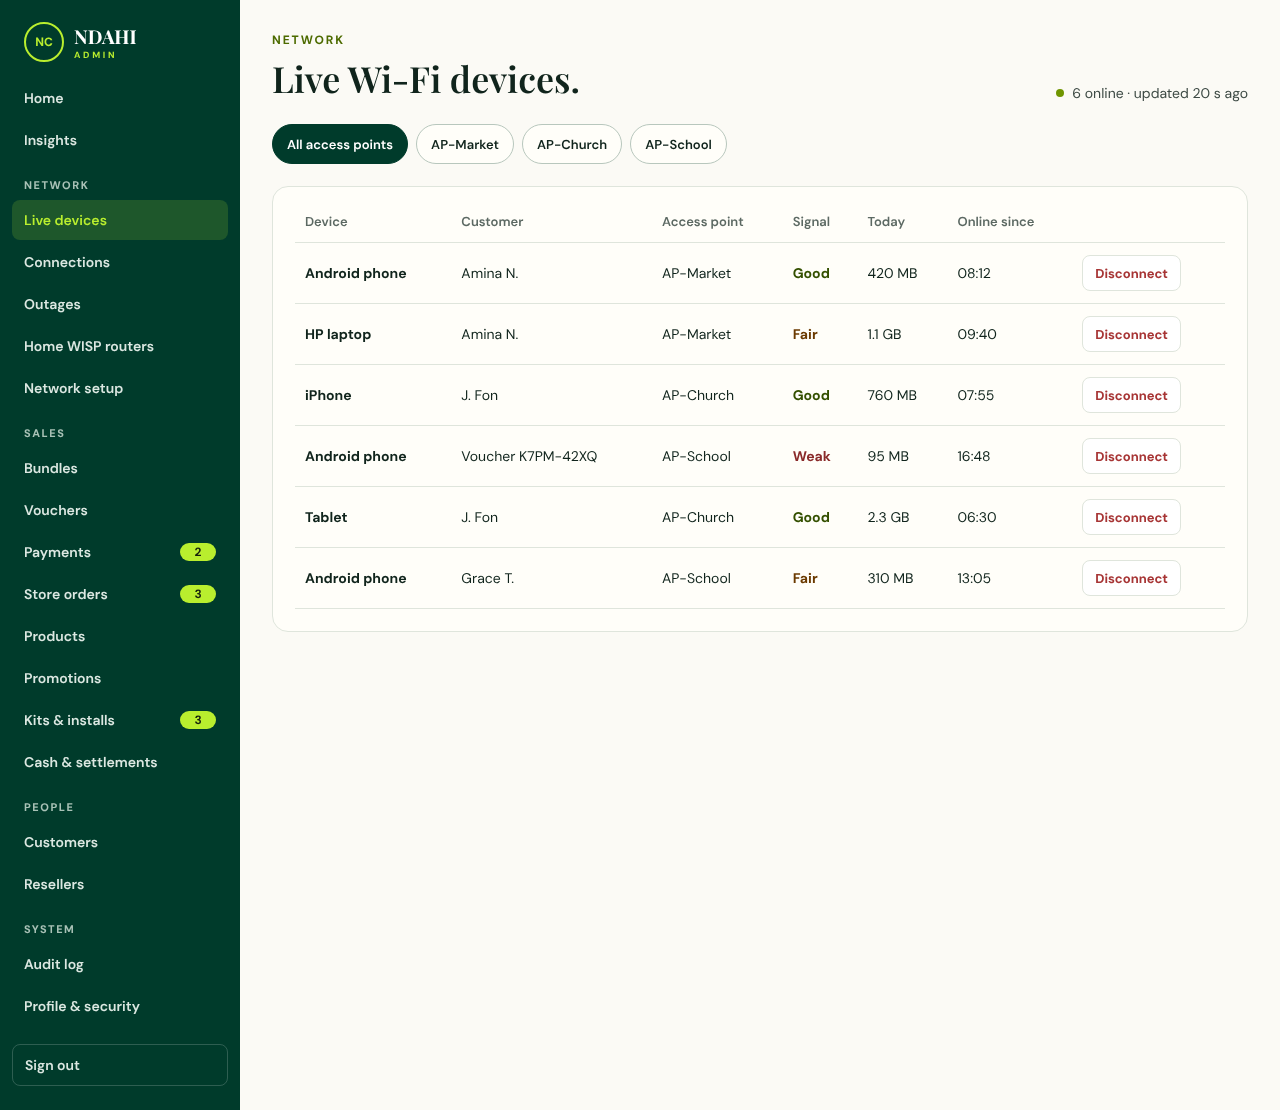
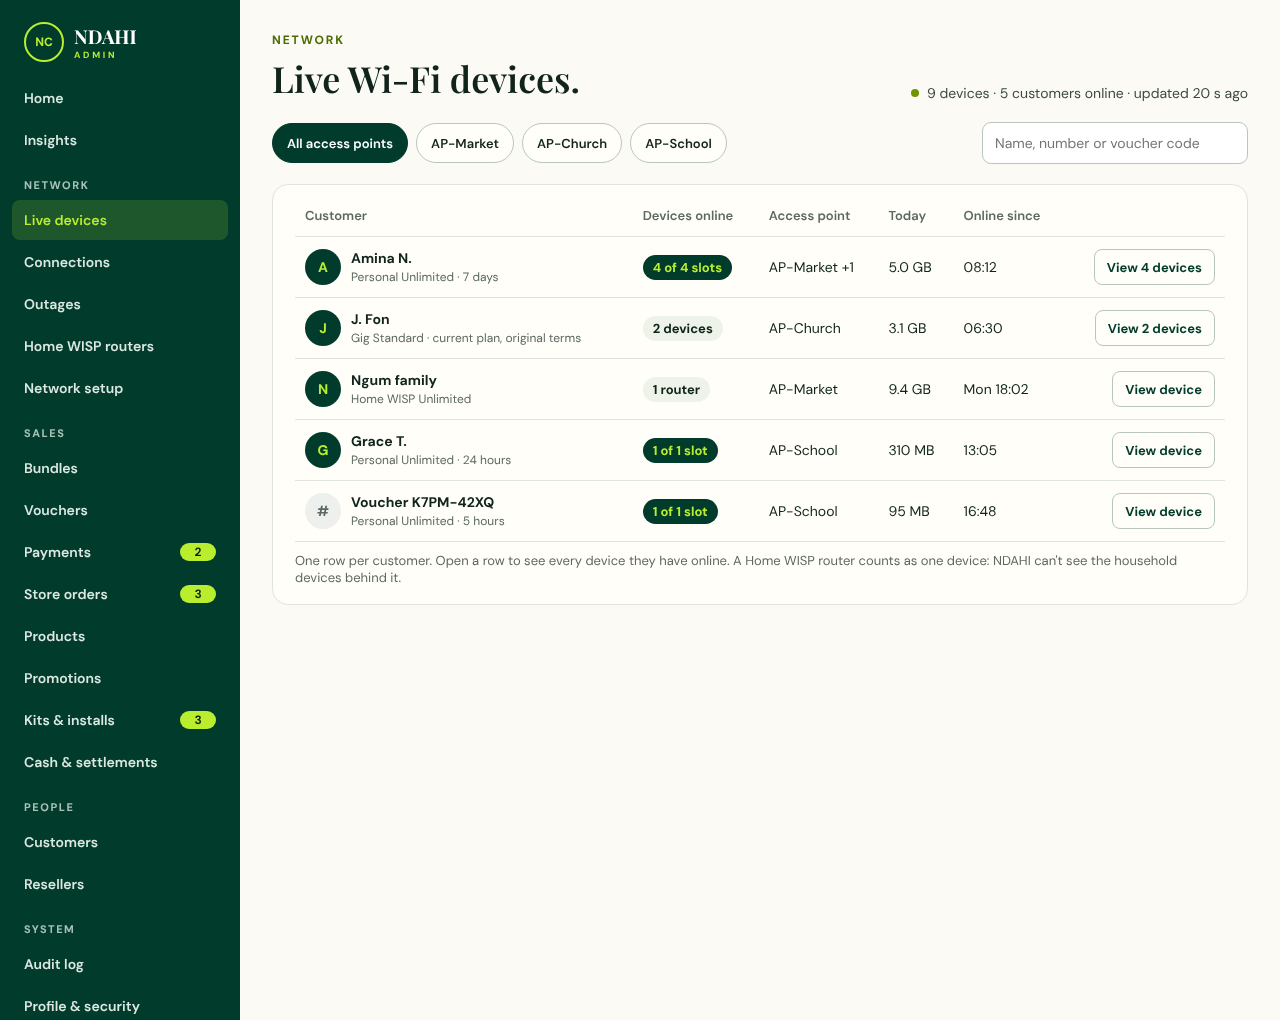
docs(redesign): Live devices grouped by customer, with a devices pop-up
One row per customer (devices online vs slots, access points, data today,
online since); "View devices" opens a dialog listing every connected device
with per-device Disconnect and Disconnect all. Home WISP shows as one router.

Claude-Session: https://claude.ai/code/session_01PeEvdR56ZfPMa6Qo24KpBv

diff --git a/docs/redesign/screens/AdminDevices.dc.html b/docs/redesign/screens/AdminDevices.dc.html
@@ -12,71 +12,155 @@
 <style>
 body{margin:0;background:#fbfaf5}
 a{color:#003b2b}a:hover{color:#062a20}
-td,th{text-align:left;padding:12px 10px;border-bottom:1px solid #dfe5dc;font-size:14px;white-space:nowrap}
+td,th{text-align:left;padding:12px 10px;border-bottom:1px solid #dfe5dc;font-size:14px;white-space:nowrap;vertical-align:middle}
 th{color:#5c6963;font-weight:600;font-size:13px}
+.av{flex:0 0 36px;height:36px;border-radius:50%;background:#003b2b;color:#b9ee2e;display:grid;place-items:center;font-weight:700}
+.pill{padding:3px 9px;border-radius:999px;font-size:12px;font-weight:700;white-space:nowrap}
+.go2{min-height:36px;padding:0 12px;border-radius:8px;border:1px solid #b8c7bd;background:#fffef9;color:#003b2b;font:700 13px 'DM Sans',sans-serif;cursor:pointer;text-decoration:none;display:inline-flex;align-items:center}
+.kick{min-height:34px;padding:0 10px;border-radius:8px;border:1px solid #e3b4b4;background:#ffffff;color:#a73535;font:700 12px 'DM Sans',sans-serif;cursor:pointer}
+.mono{font-family:ui-monospace,Menlo,monospace;font-size:12px;color:#5c6963}
 </style>
 </helmet>
-<div style="font-family: 'DM Sans', system-ui, sans-serif; color: #10241c; background: #fbfaf5; min-height: 1020px; display: flex; flex-wrap: wrap">
+<div style="position: relative; font-family: 'DM Sans', system-ui, sans-serif; color: #10241c; background: #fbfaf5; min-height: 1020px; display: flex; flex-wrap: wrap">
   <aside style="flex: 0 0 240px; background: #003b2b">
     <dc-import name="AdminSide" current="devices" hint-size="240px,780px"></dc-import>
   </aside>
-  <main style="flex: 999 1 560px; min-width: 0; padding: 32px 32px 56px; box-sizing: border-box; display: flex; flex-direction: column; gap: 22px; max-width: 1080px">
+  <main style="flex: 999 1 560px; min-width: 0; padding: 32px 32px 56px; box-sizing: border-box; display: flex; flex-direction: column; gap: 20px; max-width: 1080px">
     <div style="display: flex; flex-wrap: wrap; justify-content: space-between; align-items: flex-end; gap: 12px">
       <div>
         <p style="margin: 0 0 6px; color: #4d6b00; font-size: 12px; font-weight: 700; letter-spacing: .16em; text-transform: uppercase">Network</p>
         <h1 style="margin: 0; font-family: 'Playfair Display', serif; font-weight: 600; font-size: 36px">Live Wi-Fi devices.</h1>
       </div>
-      <span style="display: flex; align-items: center; gap: 8px; font-size: 14px; color: #3d4a44"><span style="width: 8px; height: 8px; border-radius: 50%; background: #6f9500"></span>{{count}} online · updated 20 s ago</span>
+      <span style="display: flex; align-items: center; gap: 8px; font-size: 14px; color: #3d4a44"><span style="width: 8px; height: 8px; border-radius: 50%; background: #6f9500"></span>{{deviceCount}} devices · {{customerCount}} customers online · updated 20 s ago</span>
     </div>
 
-    <div role="group" aria-label="Access point" style="display: flex; flex-wrap: wrap; gap: 8px">
-      <sc-for list="{{aps}}" as="a" hint-placeholder-count="4">
-        <button type="button" aria-pressed="{{a.pressed}}" onClick="{{a.pick}}" style="{{a.style}}">{{a.label}}</button>
-      </sc-for>
+    <div style="display: flex; flex-wrap: wrap; gap: 10px; align-items: center; justify-content: space-between">
+      <div role="group" aria-label="Access point" style="display: flex; flex-wrap: wrap; gap: 8px">
+        <sc-for list="{{aps}}" as="a" hint-placeholder-count="4">
+          <button type="button" aria-pressed="{{a.pressed}}" onClick="{{a.pick}}" style="{{a.style}}">{{a.label}}</button>
+        </sc-for>
+      </div>
+      <label for="ds" style="position: absolute; width: 1px; height: 1px; overflow: hidden; clip: rect(0 0 0 0)">Find a customer, number or code</label>
+      <input id="ds" placeholder="Name, number or voucher code" style="min-height: 40px; width: 240px; padding: 0 12px; border-radius: 9px; border: 1px solid #b8c7bd; background: #ffffff; font: 14px 'DM Sans', sans-serif">
     </div>
 
-    <section aria-label="Devices" style="background: #fffef9; border: 1px solid #dfe5dc; border-radius: 16px; padding: 14px 22px 22px">
+    <section aria-label="Customers online" style="background: #fffef9; border: 1px solid #dfe5dc; border-radius: 16px; padding: 10px 22px 18px">
       <div style="overflow-x: auto">
         <table style="width: 100%; border-collapse: collapse">
-          <thead><tr><th scope="col">Device</th><th scope="col">Customer</th><th scope="col">Access point</th><th scope="col">Signal</th><th scope="col">Today</th><th scope="col">Online since</th><th scope="col"><span style="position: absolute; width: 1px; height: 1px; overflow: hidden; clip: rect(0 0 0 0)">Action</span></th></tr></thead>
+          <thead><tr><th scope="col">Customer</th><th scope="col">Devices online</th><th scope="col">Access point</th><th scope="col">Today</th><th scope="col">Online since</th><th scope="col"><span style="position: absolute; width: 1px; height: 1px; overflow: hidden; clip: rect(0 0 0 0)">Action</span></th></tr></thead>
           <tbody>
-            <sc-for list="{{rows}}" as="r" hint-placeholder-count="6">
-              <tr>
-                <td><strong>{{r.dev}}</strong></td><td>{{r.who}}</td><td>{{r.ap}}</td>
-                <td><span style="{{r.sigStyle}}">{{r.sig}}</span></td>
-                <td>{{r.today}}</td><td>{{r.since}}</td>
-                <td><button type="button" onClick="{{r.kick}}" aria-label="{{r.kickLabel}}" style="min-height: 36px; padding: 0 12px; border-radius: 8px; border: 1px solid #dfe5dc; background: #ffffff; color: #a73535; font: 700 13px 'DM Sans', sans-serif; cursor: pointer">Disconnect</button></td>
+            <sc-for list="{{rows}}" as="r" hint-placeholder-count="5">
+              <tr style="{{r.rowStyle}}">
+                <td><span style="display: flex; gap: 10px; align-items: center"><span class="av" style="{{r.avStyle}}">{{r.initial}}</span><span><strong style="display: block">{{r.who}}</strong><span style="font-size: 12px; color: #5c6963">{{r.plan}}</span></span></span></td>
+                <td><span style="{{r.countStyle}}">{{r.countText}}</span></td>
+                <td>{{r.ap}}</td><td>{{r.today}}</td><td>{{r.since}}</td>
+                <td style="text-align: right"><button type="button" class="go2" onClick="{{r.open}}" aria-haspopup="dialog" aria-label="{{r.openLabel}}">{{r.openText}}</button></td>
               </tr>
             </sc-for>
           </tbody>
         </table>
       </div>
+      <p style="margin: 10px 0 0; color: #5c6963; font-size: 13px">One row per customer. Open a row to see every device they have online. A Home WISP router counts as one device: NDAHI can't see the household devices behind it.</p>
     </section>
   </main>
+
+  <sc-if value="{{hasDialog}}" hint-placeholder-val="{{ false }}">
+    <div style="position: absolute; inset: 0; background: rgba(16,36,28,.45); display: flex; align-items: flex-start; justify-content: center; padding-top: 90px; z-index: 5">
+      <section role="dialog" aria-modal="true" aria-labelledby="dlgT" style="width: 760px; max-width: calc(100% - 40px); box-sizing: border-box; background: #fffef9; border-radius: 18px; box-shadow: 0 20px 50px rgba(0,0,0,.25); padding: 22px 24px; display: flex; flex-direction: column; gap: 14px">
+        <div style="display: flex; gap: 12px; align-items: flex-start">
+          <span class="av" style="flex-basis: 44px; height: 44px; font-size: 18px">{{d.initial}}</span>
+          <div style="flex: 1">
+            <h2 id="dlgT" style="margin: 0; font-family: 'Playfair Display', serif; font-weight: 600; font-size: 24px">{{d.who}} · {{d.onlineText}}</h2>
+            <p style="margin: 4px 0 0; color: #5c6963; font-size: 14px">{{d.plan}} · {{d.slots}} · {{d.ends}}</p>
+          </div>
+          <button type="button" onClick="{{close}}" aria-label="Close" style="width: 40px; height: 40px; border: 0; border-radius: 10px; background: #eef3e9; color: #10241c; font: 700 18px 'DM Sans', sans-serif; cursor: pointer">×</button>
+        </div>
+        <sc-if value="{{d.full}}" hint-placeholder-val="{{ true }}">
+          <p style="margin: 0; padding: 10px 12px; border-radius: 10px; background: #eef3e9; color: #3d4a44; font-size: 13px">All slots are in use. A new device is refused until one is replaced, even if a registered device goes offline.</p>
+        </sc-if>
+        <table style="width: 100%; border-collapse: collapse">
+          <thead><tr><th scope="col">Device</th><th scope="col">Access point</th><th scope="col">Signal</th><th scope="col">Today</th><th scope="col">Online since</th><th scope="col"><span style="position: absolute; width: 1px; height: 1px; overflow: hidden; clip: rect(0 0 0 0)">Action</span></th></tr></thead>
+          <tbody>
+            <sc-for list="{{d.devices}}" as="x" hint-placeholder-count="4">
+              <tr>
+                <td><strong style="display: block">{{x.name}}</strong><span class="mono">{{x.mac}} · {{x.slot}}</span></td>
+                <td>{{x.ap}}</td>
+                <td><span style="{{x.sigStyle}}">{{x.sig}}</span></td>
+                <td>{{x.today}}</td><td>{{x.since}}</td>
+                <td style="text-align: right"><button type="button" class="kick" onClick="{{x.kick}}" aria-label="{{x.kickLabel}}">Disconnect</button></td>
+              </tr>
+            </sc-for>
+          </tbody>
+        </table>
+        <sc-if value="{{d.none}}" hint-placeholder-val="{{ false }}"><p role="status" style="margin: 0; color: #345000; font-weight: 700; font-size: 14px">All devices disconnected.</p></sc-if>
+        <p style="margin: 0; color: #5c6963; font-size: 13px; line-height: 1.45">Disconnect ends the session now; the device can sign in again. To free a slot or stop a device for good, use <strong>Revoke device</strong> on the customer's page.</p>
+        <div style="display: flex; flex-wrap: wrap; gap: 10px; justify-content: space-between; align-items: center">
+          <a class="go2" href="AdminCustomerDetail.dc.html" style="{{d.linkStyle}}">Open customer</a>
+          <button type="button" onClick="{{kickAll}}" style="min-height: 40px; padding: 0 14px; border-radius: 9px; border: 0; background: #a73535; color: #ffffff; font: 700 13px 'DM Sans', sans-serif; cursor: pointer">Disconnect all {{d.n}}</button>
+        </div>
+      </section>
+    </div>
+  </sc-if>
 </div>
 </x-dc>
-<script type="text/x-dc" data-dc-script data-props='{"$preview":{"width":1280,"height":1020}}'>
+<script type="text/x-dc" data-dc-script data-props='{"open":{"editor":"enum","options":["none","amina","fon","wisp"],"default":"none"},"$preview":{"width":1280,"height":1020}}'>
 class Component extends DCLogic {
-  constructor(props) { super(props); this.state = { ap: 'all', gone: [] }; }
+  constructor(props) { super(props); const o = props.open ?? 'none'; this.state = { ap: 'all', open: o === 'none' ? null : o, gone: [] }; }
   renderVals() {
     const s = this.state;
-    const all = [
-      { id: 1, dev: 'Android phone', who: 'Amina N.', ap: 'AP-Market', sig: 'Good', today: '420 MB', since: '08:12' },
-      { id: 2, dev: 'HP laptop', who: 'Amina N.', ap: 'AP-Market', sig: 'Fair', today: '1.1 GB', since: '09:40' },
-      { id: 3, dev: 'iPhone', who: 'J. Fon', ap: 'AP-Church', sig: 'Good', today: '760 MB', since: '07:55' },
-      { id: 4, dev: 'Android phone', who: 'Voucher K7PM-42XQ', ap: 'AP-School', sig: 'Weak', today: '95 MB', since: '16:48' },
-      { id: 5, dev: 'Tablet', who: 'J. Fon', ap: 'AP-Church', sig: 'Good', today: '2.3 GB', since: '06:30' },
-      { id: 6, dev: 'Android phone', who: 'Grace T.', ap: 'AP-School', sig: 'Fair', today: '310 MB', since: '13:05' }
-    ].filter((r) => !s.gone.includes(r.id));
+    const C = [
+      { id: 'amina', who: 'Amina N.', initial: 'A', plan: 'Personal Unlimited · 7 days', slotsMax: 4, ends: 'ends Wed 25 Nov', link: true, devices: [
+        { id: 'a1', name: 'Android phone', mac: '••:8B:03:D1', ap: 'AP-Market', sig: 'Good', today: '420 MB', since: '08:12' },
+        { id: 'a2', name: 'HP laptop', mac: '••:19:C7:5E', ap: 'AP-Market', sig: 'Fair', today: '1.1 GB', since: '09:40' },
+        { id: 'a3', name: 'Samsung tablet', mac: '••:4F:A2:10', ap: 'AP-Market', sig: 'Good', today: '650 MB', since: '10:05' },
+        { id: 'a4', name: 'Smart TV', mac: '••:E2:71:9A', ap: 'AP-School', sig: 'Weak', today: '2.8 GB', since: '18:30' } ] },
+      { id: 'fon', who: 'J. Fon', initial: 'J', plan: 'Gig Standard · current plan, original terms', slotsMax: null, ends: 'ends Fri 27 Nov', link: true, devices: [
+        { id: 'f1', name: 'iPhone', mac: '••:61:0D:44', ap: 'AP-Church', sig: 'Good', today: '760 MB', since: '07:55' },
+        { id: 'f2', name: 'Tablet', mac: '••:A9:3E:12', ap: 'AP-Church', sig: 'Good', today: '2.3 GB', since: '06:30' } ] },
+      { id: 'wisp', who: 'Ngum family', initial: 'N', plan: 'Home WISP Unlimited', slotsMax: null, ends: 'ends Tue 22 Dec', link: true, router: true, devices: [
+        { id: 'w1', name: 'Home WISP router', mac: '••:9C:31:E4', ap: 'AP-Market', sig: 'Good', today: '9.4 GB', since: 'Mon 18:02' } ] },
+      { id: 'grace', who: 'Grace T.', initial: 'G', plan: 'Personal Unlimited · 24 hours', slotsMax: 1, ends: 'ends today 21:10', link: true, devices: [
+        { id: 'g1', name: 'Android phone', mac: '••:5D:22:B7', ap: 'AP-School', sig: 'Fair', today: '310 MB', since: '13:05' } ] },
+      { id: 'vch', who: 'Voucher K7PM-42XQ', initial: '#', plan: 'Personal Unlimited · 5 hours', slotsMax: 1, ends: 'ends 21:48', link: false, devices: [
+        { id: 'v1', name: 'Android phone', mac: '••:0A:9F:63', ap: 'AP-School', sig: 'Weak', today: '95 MB', since: '16:48' } ] }
+    ].map((c) => ({ ...c, devices: c.devices.filter((d) => !s.gone.includes(d.id)) }));
     const tone = { Good: 'color: #345000;', Fair: 'color: #6b3a00;', Weak: 'color: #8a2a2a;' };
-    const rows = all.filter((r) => s.ap === 'all' || r.ap === s.ap).map((r) => ({ ...r, sigStyle: 'font-weight: 700; ' + tone[r.sig], kickLabel: 'Disconnect ' + r.dev + ' of ' + r.who, kick: () => this.setState({ gone: [...s.gone, r.id] }) }));
+    const visible = C.filter((c) => c.devices.length && (s.ap === 'all' || c.devices.some((d) => d.ap === s.ap)));
+    const aps = (c) => { const u = [...new Set(c.devices.map((d) => d.ap))]; return u.length > 1 ? `${u[0]} +${u.length - 1}` : u[0]; };
+    const total = (c) => { const gb = c.devices.reduce((t, d) => t + (d.today.endsWith('GB') ? parseFloat(d.today) * 1000 : parseFloat(d.today)), 0); return gb >= 1000 ? (gb / 1000).toFixed(1) + ' GB' : Math.round(gb) + ' MB'; };
+    const earliest = (c) => c.devices.map((d) => d.since).sort()[0];
+    const count = (c) => c.router ? '1 router' : c.slotsMax ? `${c.devices.length} of ${c.slotsMax} slot${c.slotsMax === 1 ? '' : 's'}` : `${c.devices.length} device${c.devices.length > 1 ? 's' : ''}`;
+    const rows = visible.map((c) => ({
+      who: c.who, initial: c.initial, plan: c.plan, ap: aps(c), today: total(c), since: earliest(c),
+      countText: count(c),
+      countStyle: 'padding: 4px 10px; border-radius: 999px; font-size: 13px; font-weight: 700; ' + (c.slotsMax && c.devices.length >= c.slotsMax ? 'background: #003b2b; color: #b9ee2e;' : 'background: #eef3e9; color: #10241c;'),
+      avStyle: c.id === 'vch' ? 'background: #eef0ee; color: #5c6963;' : '',
+      rowStyle: s.open === c.id ? 'background: #f3f9e8;' : '',
+      openText: c.devices.length > 1 ? `View ${c.devices.length} devices` : 'View device',
+      openLabel: `View the devices of ${c.who}`,
+      open: () => this.setState({ open: c.id })
+    }));
+    const c = C.find((x) => x.id === s.open);
+    const d = c ? {
+      who: c.who, initial: c.initial, plan: c.plan, ends: c.ends, n: c.devices.length, none: c.devices.length === 0,
+      onlineText: c.router ? 'router online' : `${c.devices.length} device${c.devices.length === 1 ? '' : 's'} online`,
+      slots: c.router ? 'household devices behind the router aren’t visible' : c.slotsMax ? `${c.devices.length} of ${c.slotsMax} device slot${c.slotsMax === 1 ? '' : 's'}` : 'device rule of the current plan',
+      full: !!(c.slotsMax && c.devices.length >= c.slotsMax),
+      linkStyle: c.link ? '' : 'visibility: hidden;',
+      devices: c.devices.map((x, i) => ({ ...x, slot: c.router ? 'registered router' : c.slotsMax ? `slot ${i + 1}` : 'current plan', sigStyle: 'font-weight: 700; ' + tone[x.sig], kickLabel: `Disconnect ${x.name} of ${c.who}`, kick: () => this.setState({ gone: [...s.gone, x.id] }) }))
+    } : { devices: [] };
     const base = 'min-height: 40px; padding: 0 14px; border-radius: 999px; font: 600 13px "DM Sans", sans-serif; cursor: pointer; ';
-    const aps = [['all', 'All access points'], ['AP-Market', 'AP-Market'], ['AP-Church', 'AP-Church'], ['AP-School', 'AP-School']].map(([id, label]) => ({
+    const apList = [['all', 'All access points'], ['AP-Market', 'AP-Market'], ['AP-Church', 'AP-Church'], ['AP-School', 'AP-School']].map(([id, label]) => ({
       label, pressed: id === s.ap ? 'true' : 'false',
       style: base + (id === s.ap ? 'border: 1px solid #003b2b; background: #003b2b; color: #ffffff;' : 'border: 1px solid #b8c7bd; background: #fffef9; color: #10241c;'),
       pick: () => this.setState({ ap: id })
     }));
-    return { rows, aps, count: all.length };
+    return {
+      rows, aps: apList, d, hasDialog: !!c,
+      deviceCount: C.reduce((t, x) => t + x.devices.length, 0), customerCount: C.filter((x) => x.devices.length).length,
+      close: () => this.setState({ open: null }),
+      kickAll: () => this.setState({ gone: [...s.gone, ...(c ? c.devices.map((x) => x.id) : [])] })
+    };
   }
 }
 </script>
